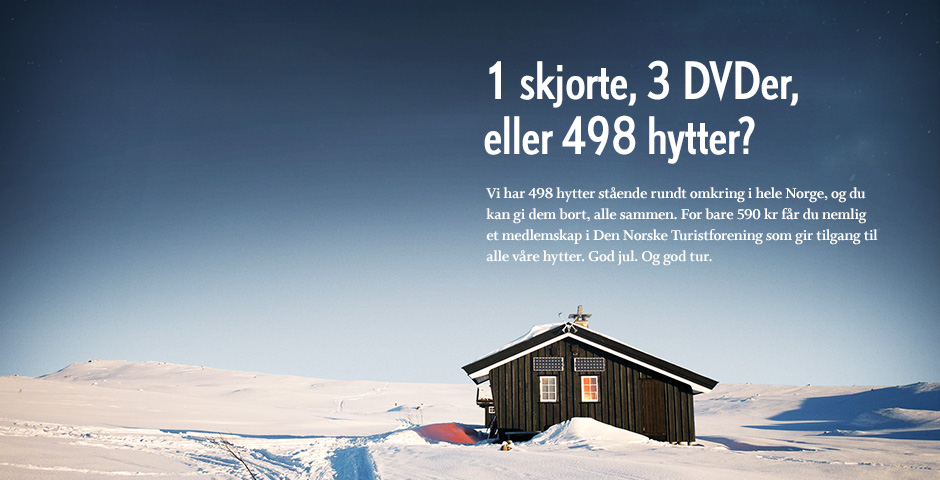
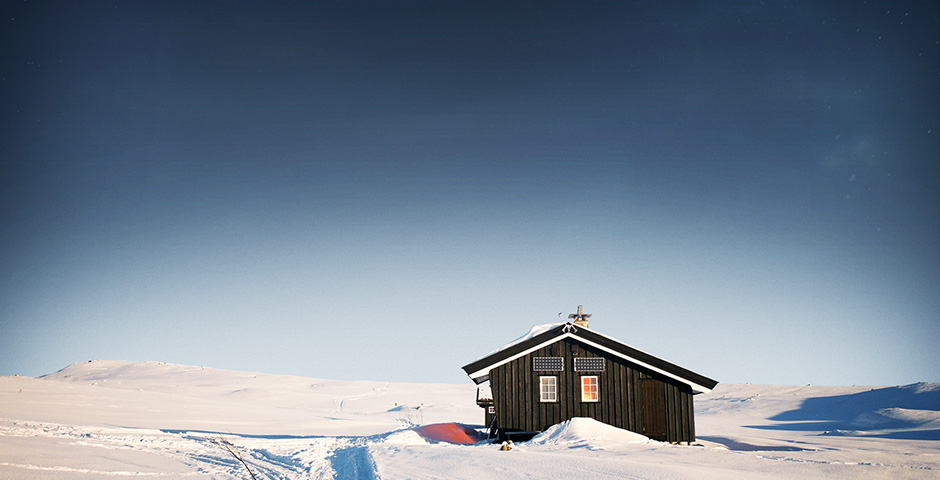
Update gift promo, replace image text with actual text

Changed region(s): [[0.4936, 0.375, 0.9564, 0.5625], [0.4936, 0.125, 0.8638, 0.3438]]

diff --git a/static/less/common/widgets/promo.less b/static/less/common/widgets/promo.less
@@ -715,25 +715,37 @@ div.widget.promo {
     background-image: url('/static/img/widgets/promo/gavemedlemskap-2013.jpg');
 
     div.content {
-      @width: 300px;
-      @padding-right: 20px;
+      @width: 410px;
+      @padding-right: 70px;
       padding-left: 940px - @width - @padding-right;
-      padding-top: 300px;
+      padding-top: 50px;
       width: @width;
       padding-right: @padding-right;
       color: white;
+      text-align: left;
 
-      h1, p {
-        display: none;
+      h1 {
+        font-weight: normal;
+        text-transform: none;
+        max-width: 390px; // Friendly hack for suitable linebreak
+      }
+
+      p {
+        font-size: 16px;
       }
 
       p.double-button-hack {
-        display: block;
+        text-align: right;
+        margin-right: 8px;
       }
 
       @media(max-width: 767px) {
-        h1, p {
-          display: block;
+        h1 {
+          max-width: none;
+        }
+
+        p.double-button-hack {
+          text-align: center;
         }
       }
     }
